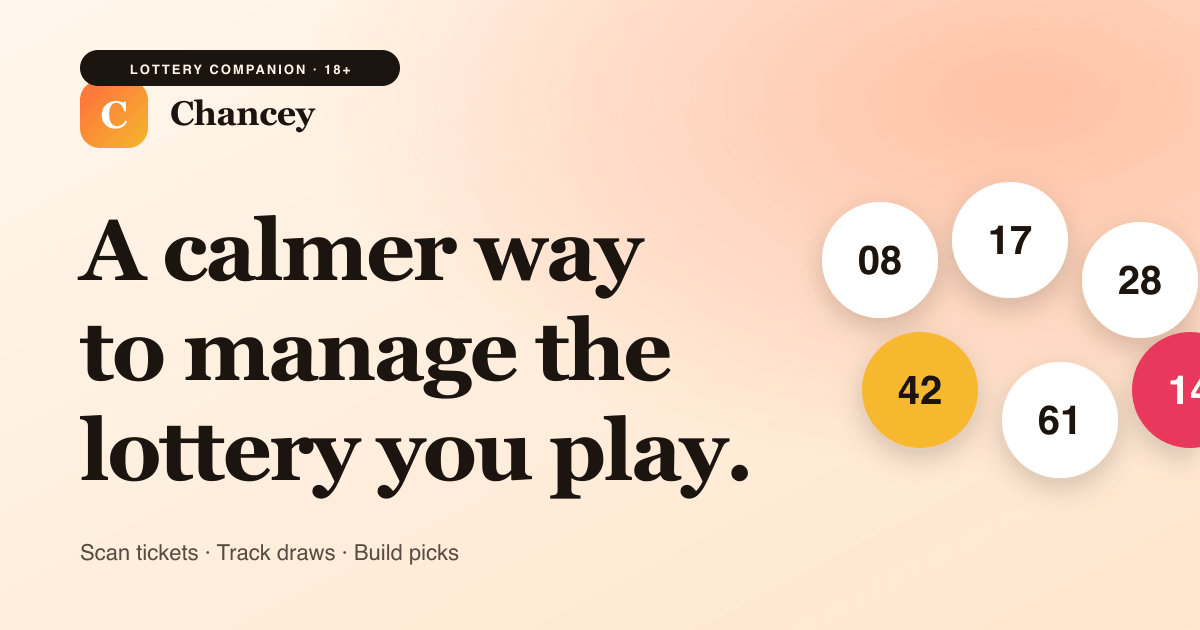
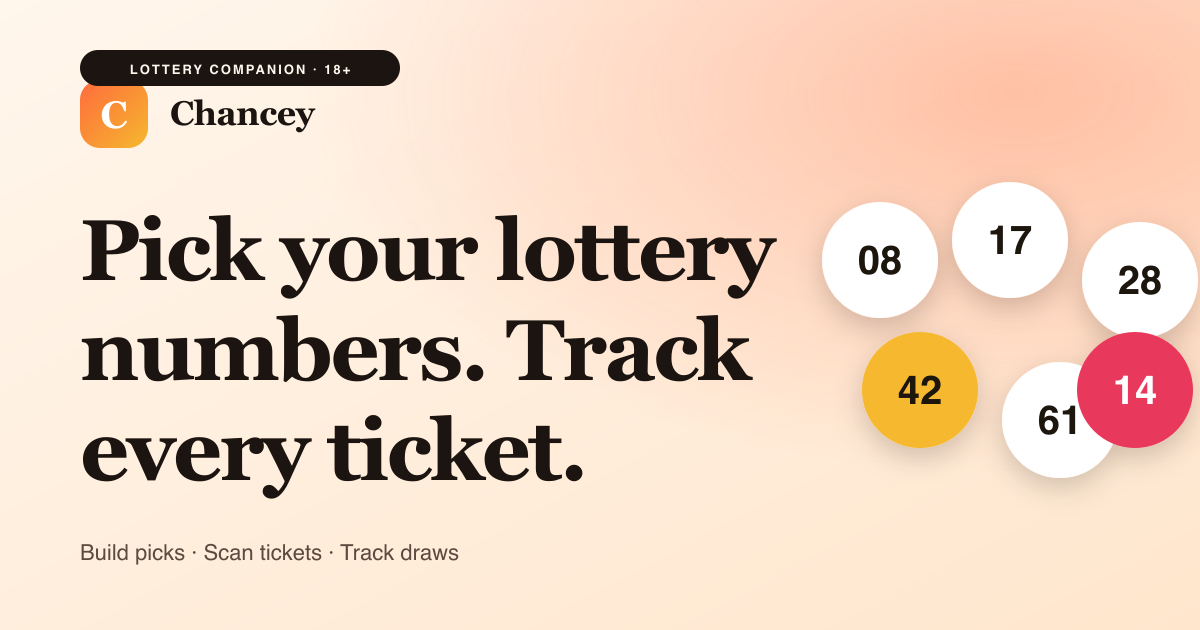
Update OG image and sitemap
Update the Open Graph image headline and simplify sitemap output for Search Console.

diff --git a/src/pages/sitemap.xml.ts b/src/pages/sitemap.xml.ts
@@ -1,0 +1,55 @@
+import { site } from '../site';
+
+export const prerender = true;
+
+const pages = [
+  '/',
+  '/about/',
+  '/contact/',
+  '/how-it-works/',
+  '/privacy/',
+  '/responsible-play/',
+  '/support/',
+  '/terms/',
+] as const;
+
+const xmlEscape = (value: string) =>
+  value
+    .replaceAll('&', '&amp;')
+    .replaceAll('<', '&lt;')
+    .replaceAll('>', '&gt;')
+    .replaceAll('"', '&quot;')
+    .replaceAll("'", '&apos;');
+
+export function GET() {
+  const lastmod = new Date().toISOString().slice(0, 10);
+  const urls = pages
+    .map((path) => {
+      const loc = new URL(path, site.url).toString();
+
+      return [
+        '  <url>',
+        `    <loc>${xmlEscape(loc)}</loc>`,
+        `    <lastmod>${lastmod}</lastmod>`,
+        '    <changefreq>weekly</changefreq>',
+        '    <priority>0.7</priority>',
+        '  </url>',
+      ].join('\n');
+    })
+    .join('\n');
+
+  return new Response(
+    [
+      '<?xml version="1.0" encoding="UTF-8"?>',
+      '<urlset xmlns="http://www.sitemaps.org/schemas/sitemap/0.9">',
+      urls,
+      '</urlset>',
+      '',
+    ].join('\n'),
+    {
+      headers: {
+        'Content-Type': 'application/xml; charset=utf-8',
+      },
+    },
+  );
+}

diff --git a/src/pages/sitemap-index.xml.ts b/src/pages/sitemap-index.xml.ts
@@ -1,0 +1,26 @@
+import { site } from '../site';
+
+export const prerender = true;
+
+export function GET() {
+  const sitemapUrl = new URL('/sitemap.xml', site.url).toString();
+  const lastmod = new Date().toISOString().slice(0, 10);
+
+  return new Response(
+    [
+      '<?xml version="1.0" encoding="UTF-8"?>',
+      '<sitemapindex xmlns="http://www.sitemaps.org/schemas/sitemap/0.9">',
+      '  <sitemap>',
+      `    <loc>${sitemapUrl}</loc>`,
+      `    <lastmod>${lastmod}</lastmod>`,
+      '  </sitemap>',
+      '</sitemapindex>',
+      '',
+    ].join('\n'),
+    {
+      headers: {
+        'Content-Type': 'application/xml; charset=utf-8',
+      },
+    },
+  );
+}
